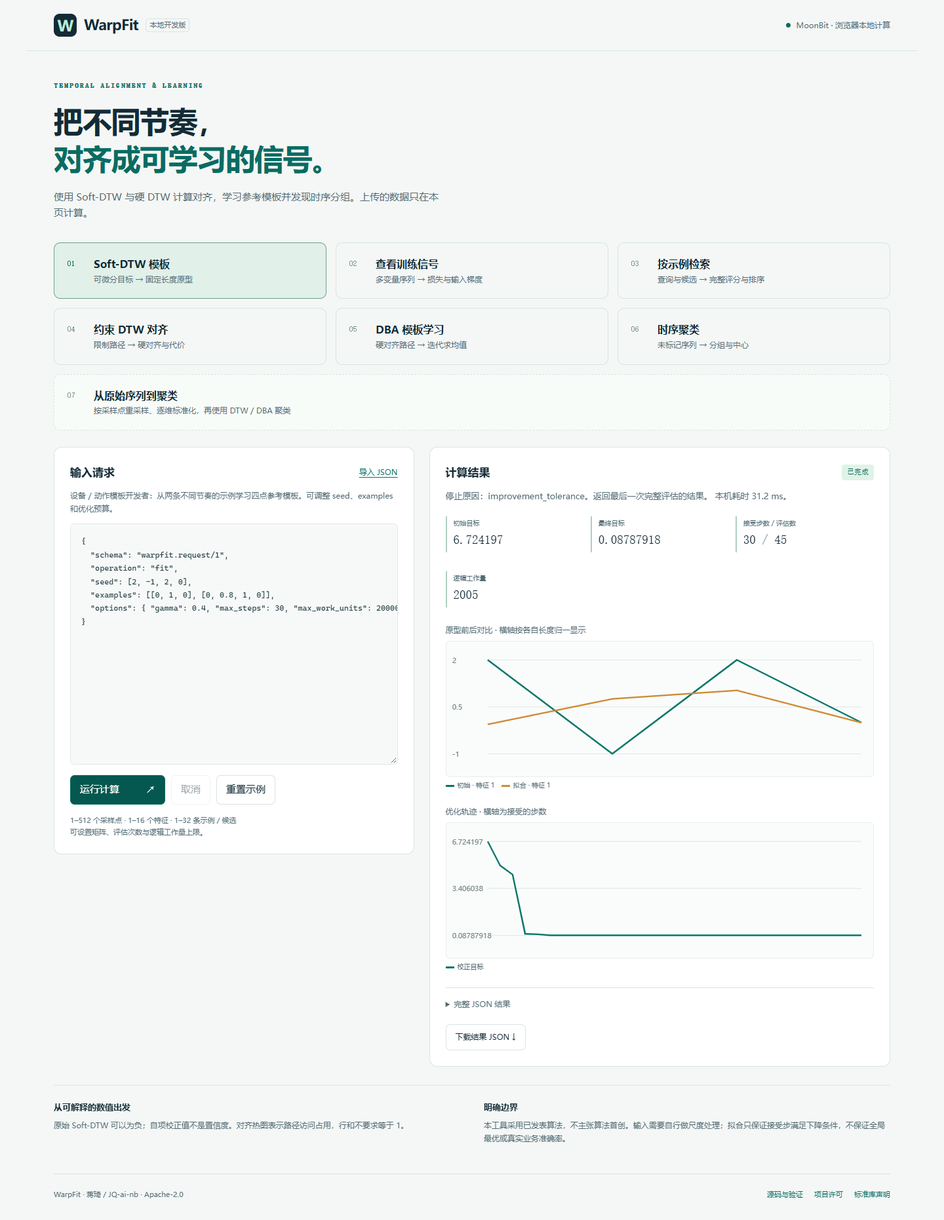
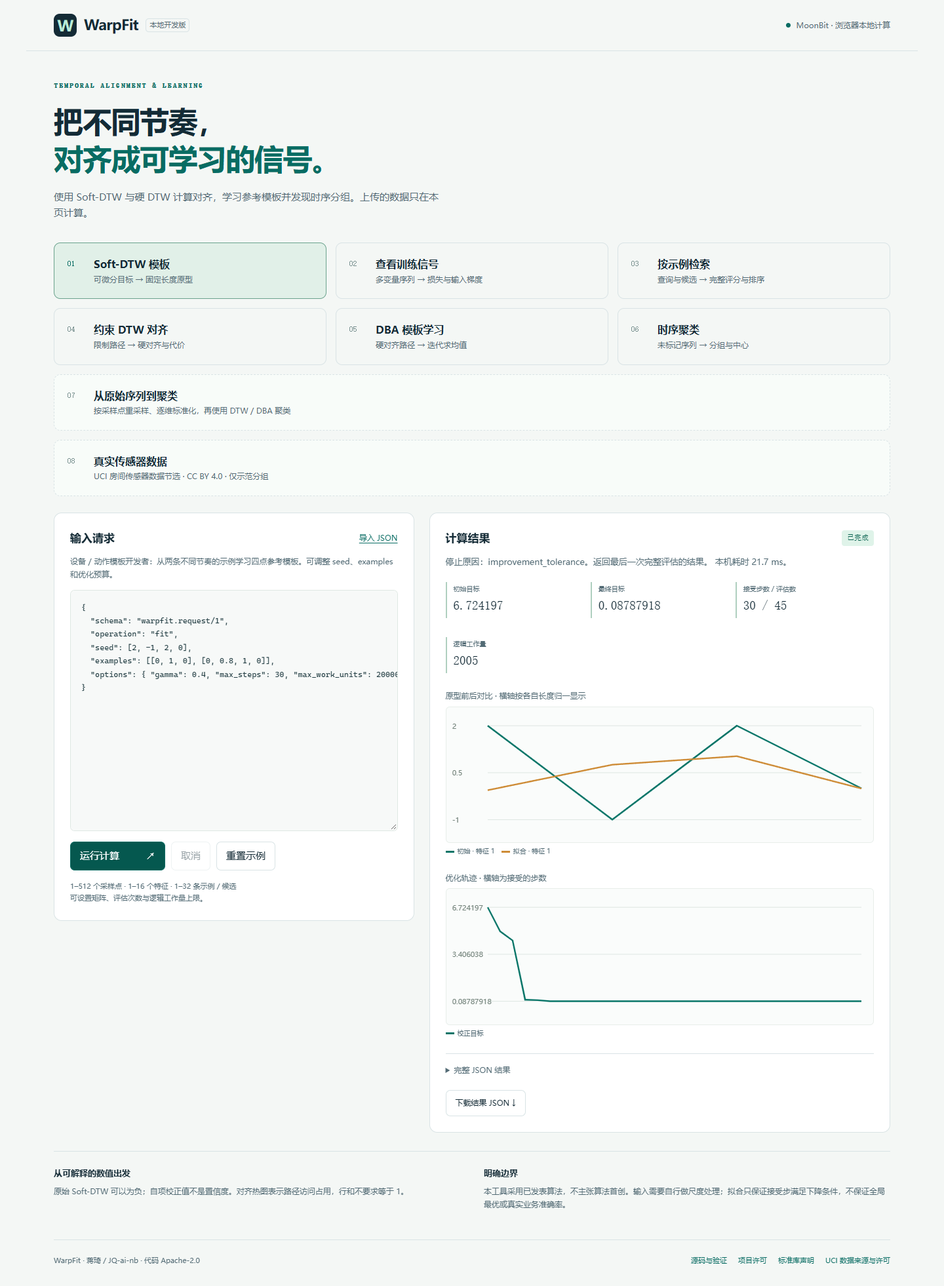
feat: add reproducible real sensor data workflow

diff --git a/web/style.css b/web/style.css
@@ -1,3 +1,3 @@
 :root{color-scheme:light;--ink:#142b36;--muted:#536b75;--line:#d9e3e5;--green:#086c63;--paper:#f4f7f5;--accent:#bcead7}*{box-sizing:border-box}body{margin:0;background:var(--paper);color:var(--ink);font:15px/1.65 system-ui,-apple-system,"Segoe UI","Microsoft YaHei",sans-serif}button,textarea{font:inherit}button,a,input{touch-action:manipulation}button{cursor:pointer;color:var(--ink);border:1px solid var(--line);background:white;border-radius:7px;padding:9px 14px}button:hover{border-color:var(--green)}button:focus-visible,a:focus-visible,textarea:focus-visible{outline:3px solid #48ae97;outline-offset:3px}button:disabled{opacity:.45;cursor:default}a{color:var(--green)}.top{height:78px;max-width:1360px;margin:auto;padding:0 42px;display:flex;align-items:center;justify-content:space-between;border-bottom:1px solid var(--line)}.brand{display:flex;align-items:center;gap:11px;font-weight:750;font-size:22px;letter-spacing:-.6px;text-decoration:none;color:var(--ink)}.mark{display:grid;place-items:center;background:var(--ink);color:var(--accent);height:35px;width:35px;border-radius:9px;font-size:23px}.version{font-size:11px;color:var(--muted);font-weight:500;border:1px solid var(--line);border-radius:5px;padding:0 5px;letter-spacing:0}.local{display:flex;gap:8px;align-items:center;font-size:12px;color:var(--muted)}.local i{width:7px;height:7px;background:var(--green);border-radius:50%}main{max-width:1276px;margin:auto;padding:45px 0 20px}.intro{max-width:760px;padding-bottom:32px}.eyebrow{color:var(--green);font:11px/1.5 monospace;letter-spacing:2.2px;font-weight:700}h1{font-size:45px;letter-spacing:-1.3px;line-height:1.28;margin:16px 0 18px;font-weight:680}h1 em{font-style:normal;color:var(--green)}.intro p{font-size:15px;max-width:590px;color:var(--muted);margin:0}.workflow{display:grid;grid-template-columns:repeat(3,1fr);gap:14px;margin-bottom:25px}.scenario{text-align:left;padding:19px 20px;display:grid;grid-template-columns:30px 1fr;column-gap:10px;border-radius:10px;background:transparent}.scenario .num{font:12px/24px monospace;color:#78908f;grid-row:1/3}.scenario strong{font-size:16px;font-weight:650}.scenario>span:last-child{font-size:12px;color:var(--muted)}.scenario.selected{background:#e1f0e8;border-color:#6aa28d}.scenario.selected .num{color:var(--green)}.workspace{display:grid;grid-template-columns:minmax(0,1fr) minmax(0,1.28fr);align-items:start;gap:23px}.panel{background:white;border:1px solid var(--line);border-radius:12px;padding:24px;min-width:0}.panel-head{display:flex;justify-content:space-between;align-items:center;margin-bottom:12px}.panel h2{font-size:17px;margin:0;font-weight:650}.file-label{font-size:12px;color:var(--green);cursor:pointer;text-decoration:underline;text-underline-offset:3px}.file-label input{display:none}.hint{font-size:12px;color:var(--muted);margin:0 0 13px}textarea{display:block;resize:vertical;min-height:368px;max-height:750px;width:100%;background:#f7f9f8;border:1px solid #dfe8e3;color:#213c42;border-radius:7px;padding:16px;font:12px/1.7 "Cascadia Code",Consolas,monospace;tab-size:2;white-space:pre;overflow:auto}.actions{display:flex;gap:9px;margin-top:16px;flex-wrap:wrap}.primary{background:var(--green);border-color:var(--green);color:white;min-width:145px;display:flex;align-items:center;justify-content:space-between;gap:20px}.primary:hover{background:#05584f}.limits{font-size:11px;color:var(--muted);margin:15px 0 0}.badge{font:11px/1.5 monospace;background:#eef3ef;border-radius:4px;padding:4px 8px;color:var(--muted)}.badge.good{background:#dff3e9;color:#07614e}.badge.warn{background:#fff0cc;color:#815b12}.badge.bad{background:#fbe3e3;color:#983733}#status{font-size:13px;color:var(--muted);margin:8px 0 20px;overflow-wrap:anywhere}.metrics{display:grid;grid-template-columns:repeat(3,minmax(0,1fr));gap:10px}.metric{border-left:2px solid #afcfbf;padding:3px 10px;min-width:0;margin-bottom:19px}.metric span{display:block;font-size:10px;color:var(--muted)}.metric strong{font:19px/1.7 monospace;overflow-wrap:anywhere}.plot{margin:6px 0 22px}.plot h3{font-size:12px;color:var(--muted);font-weight:500;margin:0 0 6px}.plot svg{display:block;width:100%;height:auto;background:#fafcfb;border:1px solid #e8eeea;border-radius:6px}.legend{font-size:10px;color:var(--muted);display:flex;flex-wrap:wrap;gap:10px;margin-top:5px}.legend span{display:flex;align-items:center;gap:5px}.legend i{width:13px;height:3px;display:inline-block}.heat{max-width:100%;height:220px;display:block;border-radius:6px;width:100%;image-rendering:pixelated}.rank{width:100%;border-collapse:collapse;font-size:12px;margin:4px 0 20px}.rank th,.rank td{text-align:left;padding:10px 7px;border-bottom:1px solid var(--line);overflow-wrap:anywhere;max-width:160px}.rank th{color:var(--muted);font-weight:500}.rank tr:first-child td{color:var(--green)}details{border-top:1px solid var(--line);padding-top:15px;margin:20px 0}summary{cursor:pointer;font-size:12px;color:var(--muted)}pre{font:11px/1.6 Consolas,monospace;overflow:auto;max-height:300px;background:#f7f9f8;padding:12px;border-radius:5px}#download{font-size:12px}.notes{display:grid;grid-template-columns:1fr 1fr;gap:36px;margin:28px 0 0;padding:23px 0;border-top:1px solid var(--line)}.notes h3{font-size:13px;margin:0 0 7px}.notes p{font-size:12px;color:var(--muted);margin:0}footer{max-width:1276px;margin:auto;padding:22px 0 30px;border-top:1px solid var(--line);display:flex;justify-content:space-between;gap:20px;font-size:11px;color:var(--muted)}footer nav{display:flex;gap:17px}footer a{text-decoration:none}.sr{position:absolute;width:1px;height:1px;overflow:hidden;clip:rect(0,0,0,0)}@media(min-width:1450px){main{padding-top:55px}.intro{padding-bottom:36px}}@media(max-width:1360px){main,footer{margin-left:32px;margin-right:32px}.top{padding:0 32px}}@media(max-width:850px){.workspace{grid-template-columns:1fr}.intro{max-width:620px}h1{font-size:38px}.scenario{padding:15px 12px;grid-template-columns:22px 1fr;column-gap:3px}.scenario>span:last-child{font-size:10px}.scenario strong{font-size:14px}textarea{min-height:290px}.notes{gap:20px}}@media(max-width:520px){main,footer{margin-left:17px;margin-right:17px}main{padding-top:30px}.top{padding:0 17px;height:65px}.local{font-size:10px;max-width:110px;line-height:1.4}.brand{font-size:20px;gap:7px}.eyebrow{font-size:9px;letter-spacing:1.1px}h1{font-size:32px;letter-spacing:-.7px}.intro p{font-size:13px}.workflow{gap:6px;margin-bottom:15px}.scenario{display:flex;flex-direction:column;align-items:flex-start;padding:10px 9px;gap:3px}.scenario strong{font-size:12px}.scenario>span:last-child{font-size:10px;line-height:1.4}.scenario .num{font-size:10px;line-height:16px}.panel{padding:17px}.metrics{gap:4px}.metric{padding:3px 7px}.metric strong{font-size:15px}.notes{grid-template-columns:1fr;gap:18px}footer{flex-direction:column;gap:10px}.actions{gap:7px}.actions button{font-size:12px;padding:8px 11px}.primary{min-width:130px}}
 
-.scenario[data-example=pipeline]{grid-column:1/-1;border-style:dashed;background:#f8fcf9}@media(max-width:520px){.scenario[data-example=pipeline]{display:grid;grid-template-columns:22px 1fr;gap:3px}}
+.scenario[data-example=pipeline],.scenario[data-example=uci-room]{grid-column:1/-1;border-style:dashed}.scenario[data-example=pipeline]:not(.selected),.scenario[data-example=uci-room]:not(.selected){background:#f8fcf9}footer nav{flex-wrap:wrap}@media(max-width:520px){.scenario[data-example=pipeline],.scenario[data-example=uci-room]{display:grid;grid-template-columns:22px 1fr;gap:3px}}

diff --git a/web/index.html b/web/index.html
@@ -18,6 +18,7 @@
       <button class="scenario" data-example="dba" aria-pressed="false"><span class="num">05</span><strong>DBA 模板学习</strong><span>硬对齐路径 → 迭代求均值</span></button>
       <button class="scenario" data-example="clusters" aria-pressed="false"><span class="num">06</span><strong>时序聚类</strong><span>未标记序列 → 分组与中心</span></button>
       <button class="scenario" data-example="pipeline" aria-pressed="false"><span class="num">07</span><strong>从原始序列到聚类</strong><span>按采样点重采样、逐维标准化，再使用 DTW / DBA 聚类</span></button>
+      <button class="scenario" data-example="uci-room" aria-pressed="false"><span class="num">08</span><strong>真实传感器数据</strong><span>UCI 房间传感器数据节选 · CC BY 4.0 · 仅示范分组</span></button>
     </section>
     <div class="workspace">
       <section class="panel editor-panel"><div class="panel-head"><h2>输入请求</h2><label class="file-label">导入 JSON<input id="file" type="file" accept=".json,application/json"></label></div><p class="hint" id="scenario-hint">修改示例或导入自己的数值序列。参数和预算均在 options 中。</p><label class="sr" for="request">版本化 JSON 请求</label><textarea id="request" spellcheck="false" aria-describedby="scenario-hint"></textarea><div class="actions"><button id="run" class="primary">运行计算 <span>↗</span></button><button id="cancel" disabled>取消</button><button id="reset">重置示例</button></div><p class="limits">1–512 个采样点 · 1–16 个特征 · 1–32 条示例 / 候选<br>可设置矩阵、评估次数与逻辑工作量上限。</p></section>
@@ -25,6 +26,6 @@
     </div>
     <section class="notes"><div><h3>从可解释的数值出发</h3><p>原始 Soft-DTW 可以为负；自项校正值不是置信度。对齐热图表示路径访问占用，行和不要求等于 1。</p></div><div><h3>明确边界</h3><p>本工具采用已发表算法，不主张算法首创。输入需要自行做尺度处理；拟合只保证接受步满足下降条件，不保证全局最优或真实业务准确率。</p></div></section>
   </main>
-  <footer><span>WarpFit · 蒋琦 / JQ-ai-nb · Apache-2.0</span><nav><a href="https://github.com/JQ-ai-nb/warpfit">源码与验证</a><a href="./WARPFIT_LICENSE">项目许可</a><a href="./MOONBIT_CORE_NOTICE">标准库声明</a></nav></footer>
+  <footer><span>WarpFit · 蒋琦 / JQ-ai-nb · 代码 Apache-2.0</span><nav><a href="https://github.com/JQ-ai-nb/warpfit">源码与验证</a><a href="./WARPFIT_LICENSE">项目许可</a><a href="./MOONBIT_CORE_NOTICE">标准库声明</a><a href="./UCI_ROOM_DATA_NOTICE.md">UCI 数据来源与许可</a></nav></footer>
   <script type="module" src="./app.mjs"></script>
 </body></html>

diff --git a/scripts/derive_uci_room.py b/scripts/derive_uci_room.py
@@ -1,0 +1,72 @@
+"""Reproduce the small, attributed room-sensor example from the UCI ZIP.
+
+This does not download data. Pass the ZIP downloaded from the UCI page listed
+in docs/REAL_DATA.md. --check verifies the checked-in derivative exactly.
+"""
+import argparse
+import csv
+import hashlib
+import io
+import json
+import math
+from pathlib import Path
+from zipfile import ZipFile
+
+ROOT = Path(__file__).resolve().parent.parent
[1 lines of base64/hex data omitted]
+OFFSETS = (0, 1800, 3600, 5400, 7200, 9000)
+COLUMNS = ("S1_Temp", "S1_Light", "S5_CO2")
+LENGTH = 60
+
+
+def derive(path: Path) -> dict:
+    if hashlib.sha256(path.read_bytes()).hexdigest() != SOURCE_SHA256:
+        raise ValueError("Source ZIP checksum differs; inspect the dataset revision before deriving")
+    with ZipFile(path) as archive:
+        with archive.open("Occupancy_Estimation.csv") as file:
+            rows = list(csv.DictReader(io.TextIOWrapper(file, encoding="utf-8-sig")))
+    if len(rows) != 10129:
+        raise ValueError("Unexpected source row count")
+    data = []
+    for offset in OFFSETS:
+        window = rows[offset : offset + LENGTH]
+        if len(window) != LENGTH:
+            raise ValueError("Source lacks an entire required window")
+        series = [[float(row[column]) for column in COLUMNS] for row in window]
+        if not all(math.isfinite(value) for row in series for value in row):
+            raise ValueError("Source contains a non-finite value")
+        data.append(series)
+    return {
+        "schema": "warpfit.request/1",
+        "operation": "pipeline",
+        "data": data,
+        "seed_indices": [0, 3],
+        "options": {
+            "target_count": 48,
+            "normalize": True,
+            "window": 4,
+            "max_iterations": 6,
+            "max_dba_steps": 3,
+            "max_work_units": 20000000,
+        },
+    }
+
+
+def main() -> None:
+    parser = argparse.ArgumentParser()
+    parser.add_argument("source_zip", type=Path)
+    parser.add_argument("--check", action="store_true")
+    args = parser.parse_args()
+    derived = derive(args.source_zip)
+    target = ROOT / "examples/uci-room.json"
+    if args.check:
+        if json.loads(target.read_text(encoding="utf-8")) != derived:
+            raise SystemExit("Checked-in example differs from selected source records")
+        print("Verified 6 fixed windows x 60 points x 3 sensor features from the cited source.")
+    else:
+        target.write_text(json.dumps(derived, ensure_ascii=False, separators=(",", ":")) + "\n", encoding="utf-8")
+        print("Wrote", target)
+
+
+if __name__ == "__main__":
+    main()

diff --git a/tests/uci_room_reference.py b/tests/uci_room_reference.py
@@ -1,0 +1,54 @@
+"""Independently recompute final real-data cluster distances with tslearn.
+
+Optional: install tslearn and numpy separately; the MoonBit library does not
+need them. WARPFIT_REFERENCE_DEPS can point at an isolated reference install.
+"""
+import json
+import os
+from pathlib import Path
+import subprocess
+import sys
+from datetime import datetime, timezone
+
+reference_deps = os.environ.get("WARPFIT_REFERENCE_DEPS")
+if reference_deps:
+    sys.path.insert(0, reference_deps)
+import numpy as np
+import tslearn
+from tslearn.metrics import dtw
+
+root = Path(__file__).resolve().parent.parent
+response = json.loads(subprocess.check_output(
+    ["node", "bin/warpfit.mjs", "examples/uci-room.json"], cwd=root, text=True, encoding="utf-8"
+))
+if not response["ok"]:
+    raise AssertionError(response)
+samples = [np.asarray(item["series"], dtype=float) for item in response["prepared"]]
+clustering = response["clustering"]
+centers = [np.asarray(center, dtype=float) for center in clustering["centers"]]
+costs = np.array([[dtw(s, c, global_constraint="sakoe_chiba", sakoe_chiba_radius=4) ** 2
+                   for c in centers] for s in samples])
+labels = np.argmin(costs, axis=1).tolist()
+inertia = float(np.min(costs, axis=1).mean())
+assert labels == clustering["labels"], (labels, clustering["labels"])
+assert np.isclose(inertia, clustering["inertia"], rtol=1e-8, atol=1e-8)
+report = {
+    "recorded_at_utc": datetime.now(timezone.utc).isoformat(),
+    "dataset": "UCI Room Occupancy Estimation (fixed six-window derivative)",
+    "tslearn_version": tslearn.__version__,
+    "numpy_version": np.__version__,
+    "sample_count": len(samples),
+    "centers": len(centers),
+    "distance_evaluations": int(costs.size),
+    "reference_labels": labels,
+    "reference_inertia": inertia,
+    "warpfit_inertia": clustering["inertia"],
+    "inertia_absolute_difference": abs(inertia - clustering["inertia"]),
+    "method": "tslearn recomputes distances to WarpFit's returned centers and prepared series; no ground-truth classification claim",
+    "status": "passed",
+}
+(root / "artifacts").mkdir(exist_ok=True)
+(root / "artifacts/uci-room-reference.json").write_text(
+    json.dumps(report, ensure_ascii=False, indent=2) + "\n", encoding="utf-8"
+)
+print(json.dumps(report, ensure_ascii=False))

diff --git a/verify.py b/verify.py
@@ -27,7 +27,8 @@ commands += [
     ['moon', 'run', 'cmd/series_pipeline', '--target', 'js'],
     ['node', 'scripts/build.mjs'],
     ['node', '--test', 'tests/cli.test.mjs', 'tests/numerical.test.mjs',
-     'tests/extended.test.mjs', 'tests/exhaustive_hard.test.mjs', 'tests/properties_hard.test.mjs'],
+     'tests/extended.test.mjs', 'tests/exhaustive_hard.test.mjs', 'tests/properties_hard.test.mjs',
+     'tests/uci_room.test.mjs'],
     [sys.executable, 'scripts/package_check.py'],
 ]
 results = []

diff --git a/docs/VALIDATION.md b/docs/VALIDATION.md
@@ -1,15 +1,16 @@
 # 已运行的验证与结果
 
-## 0.2.0 本地扩展（2026-11-11，未推送 / 未发布）
+## 0.2.0 本地扩展（2026-11-13 复核，未推送 / 未发布）
 
 - 本地 Windows 的 `moon check --target all --deny-warn`、格式与生成接口检查通过；Wasm、Wasm-GC、JS 目标各执行 59 项 MoonBit 测试并构建通过。本机缺少 MSVC，native 运行和新版远程多系统 CI **尚未验证**。
 - 从提交 `f3d5222` 用 `git archive` 导出源码到新目录，复用本机工具链重新检查全部目标、构建 JS 并运行 JS 的 59 项 MoonBit 测试及 23 项 Node 测试，均通过；[记录](evidence/clean-copy.json)。这验证的是导出源码，不代表远程检出或其他机器上的结果。
-- Node CLI / 数值测试共23项通过；本地 Chrome 覆盖7个页面场景、导入、计算、预算提示、取消、下载及390px布局，无页面错误和外部请求。浏览器证据见 [browser-nov.json](evidence/browser-nov.json)。
+- Node CLI / 数值测试共24项通过；本地 Chrome 覆盖8个页面场景、导入、计算、预算提示、取消、下载及390px布局，无页面错误和外部请求。浏览器证据见 [browser-nov.json](evidence/browser-nov.json)。
 - `tests/exhaustive_hard.test.mjs` 逐一枚举 240 组长度1..4的硬 DTW 合法完整路径，覆盖全部16种长度组合、一维/二维、无窗口及不同窗口，检查最小代价、实际路径和边界。80组 DBA 与30组聚类性质用例另复算目标、逐点最近中心和预算停止状态。
 - `tests/reference_hard.py` 使用 tslearn 0.6.4 / NumPy 2.2.6 对照160组带权硬 DTW、80组单步带权 DBA（含不等长和窗口）、9组聚类、100组预处理及1组完整流程。非例外比较的最大绝对差约2.57e-15，断言容差 rtol=atol=1e-8；结果见 [hard-reference.json](evidence/hard-reference.json)。DBA 是单步对照，不能据此声称任意初始化和收敛行为完全一致。
 - **常量特征的参考差异：**100组预处理对照中有常量维；本项目按标准差≤1e-12归零。tslearn 0.6.4 对其中7个常量特征因浮点舍入输出非零，本项目依照自身明确语义直接验证为0；这些维度没有被当作“与 tslearn 一致”，最大原始差异约2.236。其他维度按参考值比较，详情见证据文件。
 - `node scripts/benchmark_hard.mjs` 在本机 Node v24.22.1 记录长度32/128/512、1/3特征的窗口与无窗口硬 DTW，以及16条64点序列的组合流程。数据为合成输入，JSON处理计入耗时；见 [benchmark-hard.json](evidence/benchmark-hard.json)，不当作 SLA 或与竞品的公平性能比较。
-- 缺口：尚无真实设备数据、用户试用、聚类质量基准、生产采用或初审通过证明。截图中评审意见的后半段不可见，需要继续核对完整要求。扩展并不保证审核结果。
+- 另使用 [UCI 房间环境传感器公开数据的六个固定窗口](REAL_DATA.md) 实际运行三维预处理与聚类；tslearn 对返回的样本与中心复算12个距离并复核标签、平均目标，绝对差约7.1e-15：[证据](evidence/uci-room-reference.json)。这是一个受控实验的小样本，不构成人数预测或业务效果证明。
+- 缺口：尚无用户试用、聚类质量基准、生产采用或初审通过证明。截图中评审意见的后半段不可见，需要继续核对完整要求。扩展并不保证审核结果。
 
 ## 以下为 0.1.2 已发布版本的历史记录
 
@@ -48,4 +49,4 @@ python tests/tslearn_reference.py
 
 ## 证据限制
 
-所有随附数据为合成 / 数学样例。没有真实设备、医疗 / 工业决策、生产采用、准确率、吞吐 SLA 或全局收敛证据。数值一致性不能推出用户业务结论；资源工作量也不是 CPU / 内存精确上界。后续应围绕实际调用者数据补充需求、尺度选择和效果验证。
+旧版验证使用合成 / 数学样例；新版另有上文所述公开传感器数据的小样本。没有真实部署、医疗 / 工业决策、生产采用、准确率、吞吐 SLA 或全局收敛证据。数值一致性不能推出用户业务结论；资源工作量也不是 CPU / 内存精确上界。后续应围绕实际调用者数据补充需求、尺度选择和效果验证。

diff --git a/README.md b/README.md
@@ -23,6 +23,7 @@ node bin/warpfit.mjs examples/align.json
 node bin/warpfit.mjs examples/dba.json
 node bin/warpfit.mjs examples/clusters.json
 node bin/warpfit.mjs examples/pipeline.json
+node bin/warpfit.mjs examples/uci-room.json
 node bin/warpfit.mjs examples/prototype.json
 node bin/warpfit.mjs examples/training.json --out result.json
 node bin/warpfit.mjs examples/retrieval.json
@@ -51,7 +52,7 @@ node scripts/serve.mjs
 | 时序模型开发者：需要能更新预测参数的损失 | 二维预测 / 目标运行 `examples/training.json`；`cmd/calibrate` 展示梯度接入独立增益 / 偏置模型 | 返回双方同形梯度与占用矩阵；校准示例目标从 1.1964749 降至 0.4136583，链式梯度有有限差分检查 |
 | 离线数值应用开发者：要比较查询周期和候选形状 | 查询、三个候选、统一 gamma；运行 `examples/retrieval.json` | 全候选评分后返回排序，相同序列第一；不将分数当作分类概率 |
 
-详见 [场景输入、输出及验证方法](docs/SCENARIOS.md)。所有随附场景使用可复现的**合成数值输入**；尚无真实设备采用、用户访谈或业务准确率证据。
+详见 [场景输入、输出及验证方法](docs/SCENARIOS.md)。上述三个场景使用可复现的合成数值；另有 [UCI 房间传感器真实数据节选](docs/REAL_DATA.md) 可运行完整分组流程。真实数据示例不代表设备采用、用户访谈或业务准确率证据。
 
 ## 实现范围
 
@@ -73,15 +74,17 @@ node scripts/serve.mjs
 ```text
 python verify.py
 python exhaustive_oracle.py --check
-node --test tests/cli.test.mjs tests/numerical.test.mjs tests/extended.test.mjs tests/exhaustive_hard.test.mjs tests/properties_hard.test.mjs
+node --test tests/cli.test.mjs tests/numerical.test.mjs tests/extended.test.mjs tests/exhaustive_hard.test.mjs tests/properties_hard.test.mjs tests/uci_room.test.mjs
 node scripts/benchmark_hard.mjs
 ```
 
-本地 Wasm / Wasm-GC / JS 各通过 59 项 MoonBit 测试，Node 23 项测试通过；Chrome 自动化覆盖 7 个场景、文件导入、预算提醒及手机布局。本机缺 MSVC，**新版 native 运行和三系统远程 CI 尚未验证**。`verify.py --native` 需要先配置 C 编译工具。旧版的 [远程 CI](https://github.com/JQ-ai-nb/warpfit/actions/runs/41191496193) 不代表本地新代码已通过远程检查。
+本地 Wasm / Wasm-GC / JS 各通过 59 项 MoonBit 测试，Node 24 项测试通过；Chrome 自动化覆盖 8 个场景、文件导入、预算提醒及手机布局。本机缺 MSVC，**新版 native 运行和三系统远程 CI 尚未验证**。`verify.py --native` 需要先配置 C 编译工具。旧版的 [远程 CI](https://github.com/JQ-ai-nb/warpfit/actions/runs/41191496193) 不代表本地新代码已通过远程检查。
 
 此前 0.1.2 的注册表独立消费测试和线上演示已经验证；本地 0.2.0 尚未发布，不得声称新增功能已完成注册表安装测试。待授权推送并发布后，再用 `python scripts/registry_consumer.py` 验证发布版。
 
 新增硬 DTW 有 240 组小样例通过全路径穷举；另对照 tslearn 0.6.4 验证 160 组硬 DTW、80 组单步 DBA、9 组聚类、100 组预处理及一个完整流程。常量特征采用本库明确的阈值归零语义，与参考库的浮点边界行为有差异，单独披露于 [VALIDATION.md](docs/VALIDATION.md)。数值一致性不证明业务效果。
+
+UCI 的六段真实环境传感器序列也已执行预处理与聚类，并用 tslearn 复算最终样本到中心的 12 个距离。数据按 [CC BY 4.0](https://creativecommons.org/licenses/by/4.0/) 引用，抽取方式与局限见 [REAL_DATA.md](docs/REAL_DATA.md)；它不是人数预测或实际产品采用证明。
 
 ## 与已有工作的关系
 

diff --git a/docs/SCENARIOS.md b/docs/SCENARIOS.md
@@ -2,16 +2,18 @@
 
 ## 0.2.0 本地新增场景
 
-先运行 `node scripts/build.mjs`。以下输入均为合成数据，可在 CLI 或本地浏览器重现；这是对已发布 0.1.2 的扩展，尚未发布。
+先运行 `node scripts/build.mjs`。场景1至4使用合成数据，场景5使用公开传感器数据的节选；都可在 CLI 或本地浏览器重现。这是对已发布 0.1.2 的扩展，尚未发布。
 
 1. **有限错位下对齐周期信号。** 生产数据开发者输入 `[0,0,1,2]`、`[0,1,2,2]` 与窗口1，运行 `node bin/warpfit.mjs examples/align.json`。得到距离0和首尾完整的路径；把窗口改为0，平方代价为2。用穷举路径与 tslearn 数值对照验证；窗口表达下标约束，不代表真实时间戳。
 2. **从多条节奏不同的观测生成模板。** 传感器开发者输入 `examples/dba.json` 中三条不等长序列、四点初值及窗口2，运行 `node bin/warpfit.mjs examples/dba.json`。输出模板约 `[0,0.875,1.833333,0]`，目标约0.166667→0.118056；返回2次接受更新和停止原因。用单点带权解析解、80组参考单步 DBA 与单调性测试验证，不宣称全局最优。
 3. **不同量纲序列按形状分组。** 离线分析者输入 `examples/pipeline.json` 的四条升 / 降序列、种子下标 `[0,2]`，运行 `node bin/warpfit.mjs examples/pipeline.json` 或 `moon run cmd/series_pipeline --target js`。重采样到5点、逐序列标准化并聚类后，标签为 `[0,0,1,1]`，平均平方代价为0；同时返回处理后的序列、原尺度均值/标准差、簇中心和预算。改变窗口、关闭标准化或使用重复中心会产生不同结果；测试检查最近中心、空簇错误、预算结束与 tslearn 对照。不将合成数据结果当成真实设备识别率。
 4. **无需标准化直接聚类。** `node bin/warpfit.mjs examples/clusters.json` 输入六条已准备好的不同长度序列和两个初始中心，返回 `[0,0,0,1,1,1]`；目标从约0.003333降至0.002222。调用方需根据业务决定是否消除量纲和绝对水平。
 
+5. **公开传感器数据的形状分组。** 研究者运行 `node bin/warpfit.mjs examples/uci-room.json`，输入来自 UCI 受控实验的温度、光照与 CO₂ 六个固定时段窗口，按样本下标重采样、逐维标准化并以固定种子进行聚类。该次本机返回 `[0,1,0,1,1,1]`，最终平均平方代价约47.7271；tslearn 对最终中心的独立距离复算一致。来源、CC BY 4.0、样本选择与限制见 [REAL_DATA.md](REAL_DATA.md)。这不是人数预测、真实部署或业务效果验证。
+
 ## 0.1.x 原有场景
 
-所有数据为本项目固定合成数值示例，不涉及任何真实个人或设备记录。先执行 `node scripts/build.mjs`。三个文件均可在浏览器选择对应场景后运行、编辑或下载结果，也可在 CLI 独立运行。不同工具链最后若干位可能有浮点差异。
+以下三个旧版场景为固定合成数值示例。先执行 `node scripts/build.mjs`。三个文件均可在浏览器选择对应场景后运行、编辑或下载结果，也可在 CLI 独立运行。不同工具链最后若干位可能有浮点差异。
 
 ## 1. 从不同节奏的周期观测学习参考模板
 

diff --git a/docs/REAL_DATA.md b/docs/REAL_DATA.md
@@ -1,0 +1,26 @@
+# 真实传感器数据示例及许可
+
+本目录随项目提供的 `examples/uci-room.json` 是从公开数据集中选择的**小规模衍生样本**，用于复现数值处理和聚类流程。它不是本项目采集的数据，不包含原始日期、时间或房间人数标签。
+
+## 来源与许可
+
+Singh, A. & Chaudhari, S. (2018). *Room Occupancy Estimation* [Dataset], UCI Machine Learning Repository, <https://doi.org/10.24432/C5P605>。数据集页面：<https://archive.ics.uci.edu/dataset/864/room+occupancy+estimation>。UCI 页面标明原始数据采用 [Creative Commons Attribution 4.0 International (CC BY 4.0)](https://creativecommons.org/licenses/by/4.0/)；本衍生数据保留相同的来源和许可声明。WarpFit 自有程序代码仍使用仓库的 Apache-2.0 许可证，不能将数据集默认归入该代码许可证。
+
+原数据来自受控实验中的房间环境传感器，数据集网站描述为每约 30 秒采集一次，传感器包括温度、光照、声音和 CO₂。此处仅选择 S1 温度、S1 光照、S5 CO₂ 三个数值列；未使用人数标签。由使用者从公共数据导出的样本可能包含测量值，仍应按照实际业务情境处理数据权限。
+
+## 选择方式和可复现性
+
[1 lines of base64/hex data omitted]
+
+从 CSV 表头之后的第 0、1800、3600、5400、7200、9000 行开始，各取连续 60 行，按原先顺序保留三个列的数值，组成 6 条三维序列。没有使用人数标签选种子或计算标签；这只是固定步长抽取的小样本，不保证具有总体代表性。输入 JSON 设置重采样至 48 点、逐序列逐维标准化、窗口 4、以第 0 和第 3 条作为初始中心，执行 DTW / DBA 聚类。
+
+```text
+node scripts/build.mjs
+node bin/warpfit.mjs examples/uci-room.json
+```
+
+也可运行 `node scripts/serve.mjs`，选择“真实传感器数据”场景。一次本机运行得到分组 `[0,1,0,1,1,1]`，平均平方 DTW 代价约 `47.7270816929`，初始目标约 `115.0709036811`，3 次完整迭代后以 `improvement_tolerance` 停止。几条样本的部分特征为常量，标准化时按记录的策略设为 0。
+
+`tests/uci_room_reference.py` 使用 tslearn 0.6.4 对**本项目返回的处理后样本与中心**重新计算 12 个硬 DTW 距离，得到相同最近中心标签和约 `47.7270816929` 的平均平方代价；不对完整训练轨迹或真实人数作推断。结果见 `docs/evidence/uci-room-reference.json`。
+
+标准化会抹去每条窗口的绝对水平和尺度，尤其不适合直接据此判断室内人数、设备是否异常或作控制决策。重采样按样本下标而不理解真实采集时间；多个窗口来自同一受控实验，不能证明泛化能力、生产实用性或准确率。真实业务需另外评估时间间隔、尺度选择、标注、数据许可和有效性。

diff --git a/docs/API.md b/docs/API.md
@@ -48,7 +48,7 @@ match @warpfit.divergence(prediction, target, 0.4) {
 
 `preprocess` / `pipeline`：`target_count=0` 表示保持长度，1..512 表示按样本下标重采样；`normalize=true` 表示对每条序列独立逐特征标准化，`epsilon=1e-12`。先重采样后标准化。`pipeline.seed_indices` 是原始输入数组中不重复的零基下标，对应预处理后的初始中心。常量特征的标准化输出为0；`normalize=false` 时均值、标准差和常量标记数组为空。JSON 禁止 `window:-1`；省略 `window` 才表示不约束（MoonBit 类型接口用 -1）。
 
-实际输入和完整配置例子：[align.json](../examples/align.json)、[dba.json](../examples/dba.json)、[clusters.json](../examples/clusters.json)、[pipeline.json](../examples/pipeline.json)，以及原有的 [prototype.json](../examples/prototype.json)、[training.json](../examples/training.json)、[retrieval.json](../examples/retrieval.json)。数值范围和工作量语义见 [SEMANTICS.md](SEMANTICS.md)。所有错误码由核心和 wire 层稳定字符串给出；判断应使用 code 而非自然语言 message。
+实际输入和完整配置例子：[align.json](../examples/align.json)、[dba.json](../examples/dba.json)、[clusters.json](../examples/clusters.json)、[pipeline.json](../examples/pipeline.json)、[真实传感器数据](REAL_DATA.md)，以及原有的 [prototype.json](../examples/prototype.json)、[training.json](../examples/training.json)、[retrieval.json](../examples/retrieval.json)。数值范围和工作量语义见 [SEMANTICS.md](SEMANTICS.md)。所有错误码由核心和 wire 层稳定字符串给出；判断应使用 code 而非自然语言 message。
 
 ```text
 node bin/warpfit.mjs examples/prototype.json

diff --git a/THIRD_PARTY_NOTICES.md b/THIRD_PARTY_NOTICES.md
@@ -21,4 +21,8 @@
 - `LING71671/MoonSTRtree`：Apache-2.0。
 - `walkzzz/moon-geometry`：MIT；其二维轨迹模块已有普通和窗口约束 DTW，与本项目存在功能重合。
 
-上述项目的功能与许可证通过公开资料核对。没有将其源码或测试夹具复制到本实验中；后续如发生移植、代码复用或数据引用，应逐项更新来源和许可说明。
+上述项目的功能与许可证通过公开资料核对。没有将其源码或测试夹具复制到本实验中；后续如发生移植或代码复用，应逐项更新来源和许可说明。公开数据的引用单独列于下文。
+
+## 公开数据示例
+
+`examples/uci-room.json` 取自 Singh、Chaudhari 的 [Room Occupancy Estimation](https://doi.org/10.24432/C5P605) 数据集，并经过列选择和固定区间抽取。数据集及其衍生示例采用 [CC BY 4.0](https://creativecommons.org/licenses/by/4.0/)，原始来源、修改方法和使用限制见 [docs/REAL_DATA.md](docs/REAL_DATA.md)；该数据与本项目 Apache-2.0 代码分开标注。

diff --git a/CHANGELOG.md b/CHANGELOG.md
@@ -5,6 +5,7 @@
 - 新增窗口约束硬 DTW 及完整路径、带权 DBA、用户提供初始中心的 DTW/DBA 聚类。
 - 新增按样本下标线性重采样、逐特征标准化和预处理到聚类的组合接口；扩展 JSON、文件 CLI 和浏览器工作台。
 - 新增小规模路径穷举、tslearn 数值交叉验证、预算 / 空簇 / 常量特征边界及文件与浏览器场景；旧 0.1.2 功能继续保留。
+- 新增 UCI 公开传感器数据的六段三维窗口示例、来源许可和复算，不能据此推断人数或业务准确率。
 - 相近能力与 moon-geometry、MoonSTRtree 和 tslearn 存在实际重合，详见相关工作；算法与集成贡献不应称为原创算法。
 
 ## 0.1.2
